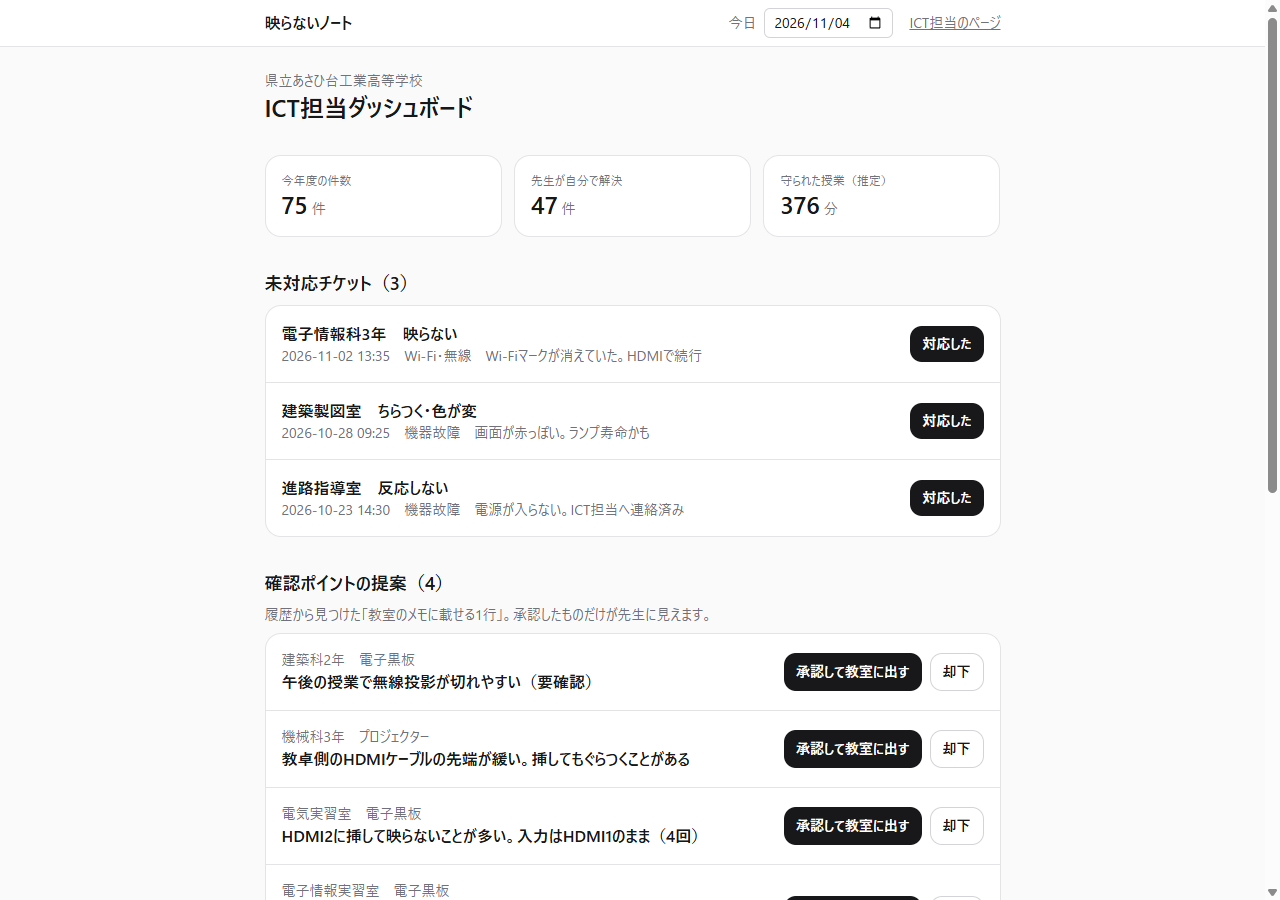
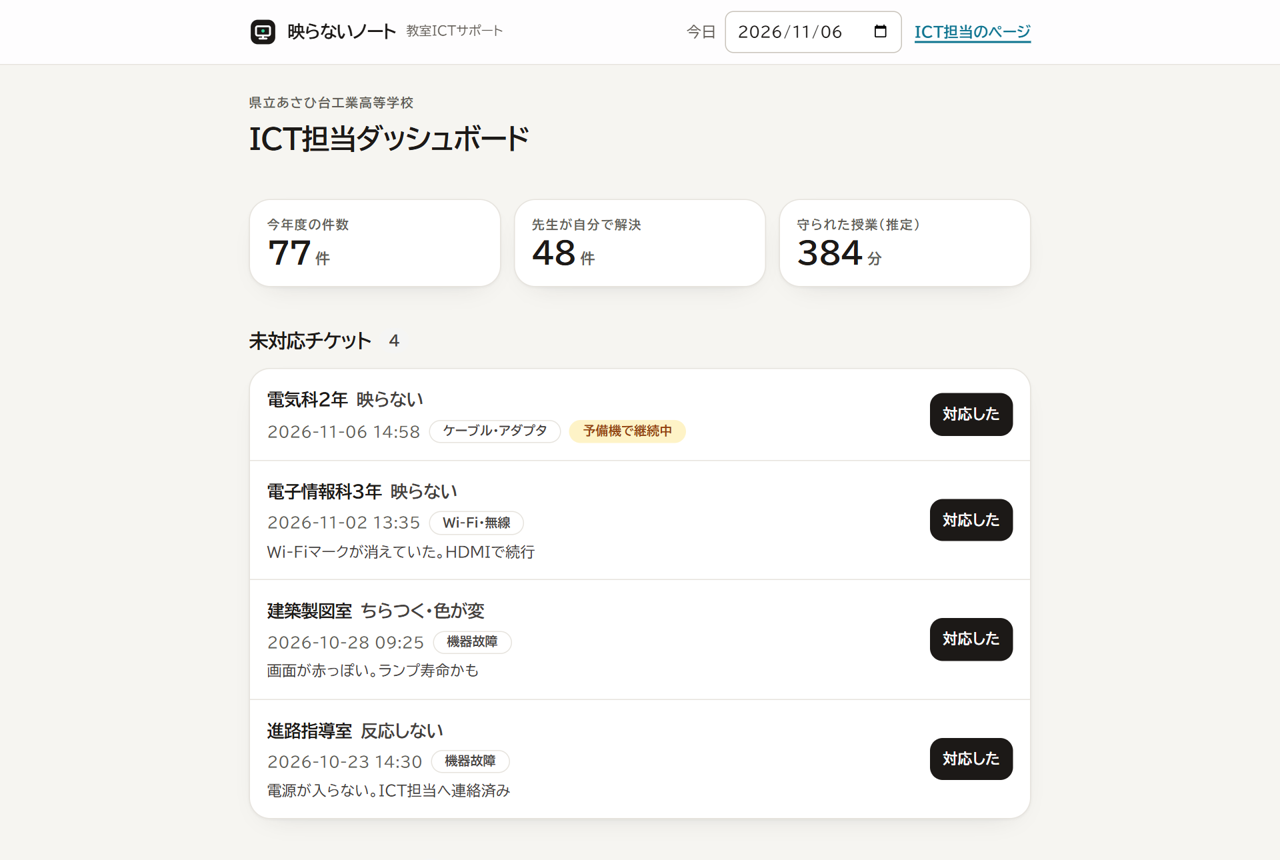
デザイン刷新の記録（DECISIONS・BUILD_LOG）、README の画面写真を新デザインに差し替え

diff --git a/docs/BUILD_LOG.md b/docs/BUILD_LOG.md
@@ -74,4 +74,5 @@
 - 運営の撮影ガイド（先生がスクショ共有）を `docs/DEMO.md`「撮影の決まり」に反映。訂正：YouTube は「限定公開」でよく、不可なのは「非公開」。SUBMISSION.md の確認リストも修正
 - 11/6：先生の決定で実機録画をやめ、**スライド＋合成音声のデモ動画**を生成する仕組みを `video/` に作った。`capture.mjs`（puppeteer-core で教室ページ→質問→手順→原因タップ→記録、直らない→予備機、ダッシュボード承認／却下、年度末の引継ぎ文書のストリーミング、購入計画、QR、リポジトリを撮影）→ `build.py`（文ごとに edge-tts で音声、HTML スライドを Chrome で描画、ffmpeg で結合、字幕 .srt）。26文・33枚・2分47秒。詰まった点：質問の有無を本文の「いいえ」で判定すると手順文中の語に誤反応→ボタンの文言で判定／引継ぎ文書は生成ごとに構成が変わり「電気科2年」の強調行が取れないことがある→文書順で最初に出る要素を強調し、ナレーションは「今年度最多の10件」（事実パックの数で安定）に合わせた／画像だけの mp4 が可変フレームレートになる→ `-fps_mode cfr`
 - 動画 v2：先生の指摘（「なぜ必要か」が弱い、ナレーションが固い）で冒頭に「映らない先生／駆けつけるICT担当／生徒」の3枚カードの場面を追加し、全文をくだけた調子に書き直し。3分10秒になったので、文を4つ削り・短くし、速度+4%、間を詰めて2分53秒。`build.py` に `why` レイアウト（カードを1枚ずつ表示）と文ごとの見出し上書きを追加
+- 先生の指示「すべての画面のデザインを洗練、シンプルだがデザイン性、ユニバーサルデザイン」→ デザイン基盤を `globals.css` に集約（DECISIONS 11/06）。全ページ・全部品を書き直し（layout / 教室一覧 / 教室ページ / Triage / PhotoAssist / ダッシュボード / TicketList / QuirkProposals / 書類 / DocStudio / Markdown / QR / DateSim）。tsc・lint 通過。ブラウザで全画面確認。動画のフレームを撮り直して v3 を生成
 

diff --git a/docs/DECISIONS.md b/docs/DECISIONS.md
@@ -84,3 +84,8 @@
 **決めたこと**：書類の下書き（Sonnet 5.5 ストリーミング）は `thinking: { type: "between_tools" }` で長考を切る。`effort` は medium のまま。
 **なぜ**：既定のままだと最初の1文字が出るまで59秒、全文で87秒かかった。読みながら待てるのがストリーミングの価値なのに、1分間白い画面では意味がない。切ると1.8秒で流れ始め、25秒で終わる。内容は事実パックの数字を言葉にする作業なので、長考の恩恵が小さい。なお `{type:"disabled"}` はこのモデルでは 400 で拒否され、エラー文が `between_tools` を案内してくる。
 
+## 2026-11-06　画面のデザイン基盤を1つにする（ユニバーサルデザイン）
+
+**決めたこと**：全画面を共通の部品（`card` / `btn` / `chip` / `eyebrow` など、`src/app/globals.css`）で組む。文字は UD フォント（BIZ UDPGothic）優先・本文 17px・行間 1.6。配色は白地に本文 14:1、補助文 5:1 以上。押せるものは高さ 48px 以上。フォーカスは 3px の輪郭。意味は色だけで伝えない（「たぶんこれ」「予備機：」「予備機で継続中」など文言を併記）。`prefers-reduced-motion` で動きを止める。ブランドマーク（スクリーンと緑の点）を追加。
+**なぜ**：先生は焦っている状態でスマホを見る。見分けやすい文字と大きな押し場所が、速さと誤操作の少なさに直結する。色覚の違いや老眼にも配慮が要る（職員室の年齢層は広い）。ICT担当側は情報量が多いので、カードと見出しで区切り、数字は等幅で揃える。
+**捨てたもの**：装飾的なグラデーションや影の多用、アイコンだけのボタン。
